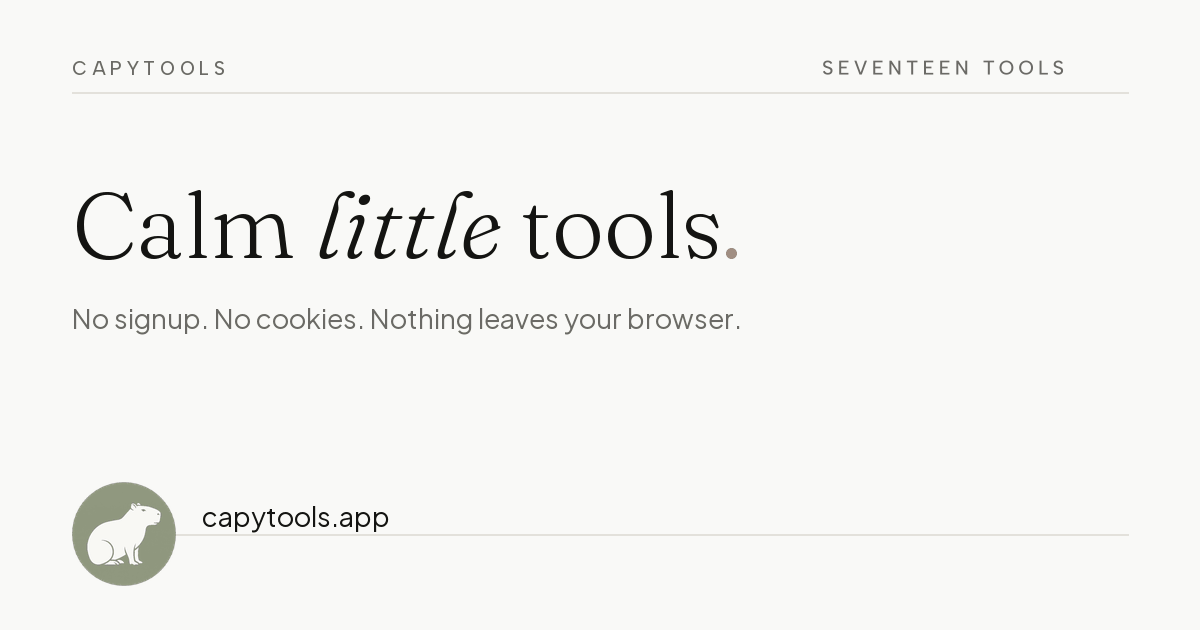
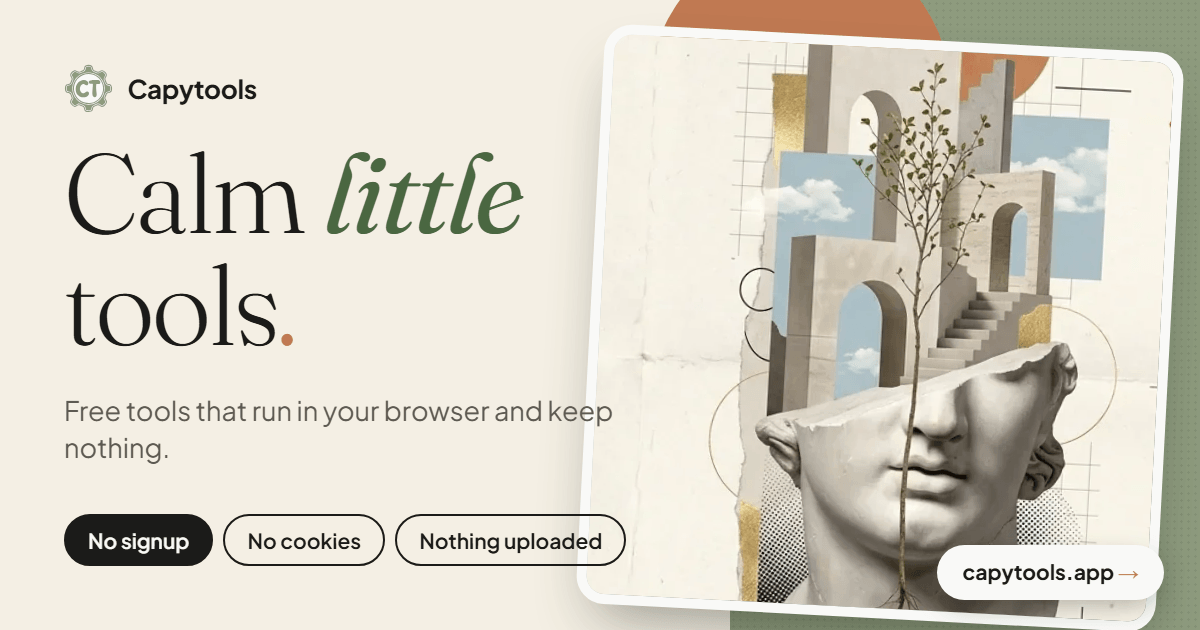
feat(brand): share card redesign, rendered from a template (D63, L55) (#109)
The 1200x630 card now leads with the hero collage on a sage field with a
clay sun, the CT gear mark and a Fraunces headline, sentence case
throughout. It is rendered by scripts/render-share-cards.mjs (headless
Chrome) from scripts/share-cards/card.html, which also renders the local
directory gallery set. The card prints no tool count, so
OG_CARD_TOOL_COUNT and its test are gone.

diff --git a/scripts/share-cards/card.html b/scripts/share-cards/card.html
@@ -1,0 +1,156 @@
+<!doctype html>
+<!--
+  The share card and the directory renders, as one template.
+  Rendered by scripts/render-share-cards.mjs: ?v=<variant> picks a CARDS row.
+  Every claim below is copied from the live tool page — change the page, change this.
+-->
+<html lang="en">
+<head>
+<meta charset="utf-8">
+<link rel="preconnect" href="https://fonts.googleapis.com">
+<link href="https://fonts.googleapis.com/css2?family=Fraunces:ital,opsz,wght@0,9..144,300;0,9..144,400;1,9..144,300;1,9..144,400&family=Plus+Jakarta+Sans:wght@400;500;600;700&family=Albert+Sans:wght@500&display=block" rel="stylesheet">
+<style>
+  :root {
+    --cream: #f9f9f7;
+    --paper: #f4efe4;
+    --ink: #1b1b19;
+    --muted: #5d5a52;
+    --sage: #8e9b7e;
+    --sage-deep: #4a6741;
+    --clay: #c07952;
+    --gold: #d9a441;
+  }
+  * { box-sizing: border-box; margin: 0; padding: 0; }
+  html, body { background: var(--paper); }
+  .stage {
+    position: relative; overflow: hidden;
+    width: var(--w); height: var(--h);
+    background: var(--paper);
+    font-family: "Plus Jakarta Sans", sans-serif; color: var(--ink);
+  }
+  /* the colour field on the right: sage, a clay sun, a plate on top */
+  .field {
+    position: absolute; top: 0; right: 0; bottom: 0; width: var(--field);
+    background: var(--sage);
+  }
+  .field::before { /* paper grain, so the sage is not flat vector */
+    content: ""; position: absolute; inset: 0; opacity: .18; mix-blend-mode: multiply;
+    background-image: radial-gradient(rgba(0,0,0,.35) 1px, transparent 1.2px);
+    background-size: 7px 7px;
+  }
+  .sun {
+    position: absolute; border-radius: 50%; background: var(--clay);
+    width: var(--sun); height: var(--sun); right: var(--sun-r); top: var(--sun-t);
+  }
+  .plate {
+    position: absolute; right: var(--plate-r); top: var(--plate-t);
+    height: var(--plate-h); aspect-ratio: var(--plate-ar);
+    background: var(--cream) center / cover no-repeat;
+    border-radius: 18px; transform: rotate(var(--tilt));
+    box-shadow: 0 2px 4px rgba(20,24,16,.12), 0 30px 60px -12px rgba(20,24,16,.45);
+    outline: 10px solid var(--cream);
+  }
+  .copy {
+    position: absolute; left: var(--pad); top: var(--pad); bottom: var(--pad);
+    width: var(--copy-w); display: flex; flex-direction: column;
+  }
+  .brand { display: flex; align-items: center; gap: 14px; font-weight: 700; font-size: var(--brand-fs); letter-spacing: -.01em; }
+  .brand img { width: calc(var(--brand-fs) * 1.9); height: auto; }
+  .brand .tool { font-family: "Albert Sans", sans-serif; font-weight: 500; color: var(--muted); }
+  .brand .tool::before { content: "·"; margin: 0 10px 0 2px; color: var(--clay); }
+  h1 {
+    margin-top: auto; font-family: "Fraunces", serif; font-weight: 300;
+    font-size: var(--h1); line-height: 1; letter-spacing: -.02em;
+    font-variation-settings: "opsz" 72;
+  }
+  h1 em { font-style: italic; font-weight: 400; color: var(--sage-deep); }
+  h1 .dot { color: var(--clay); }
+  .lead { margin-top: calc(var(--h1) * .28); font-size: var(--lead); line-height: 1.38; color: var(--muted); max-width: 30ch; }
+  .chips { margin-top: auto; display: flex; flex-wrap: wrap; gap: 10px; padding-top: 24px; }
+  .chip {
+    font-size: var(--chip); font-weight: 600; padding: .5em 1.05em; border-radius: 999px;
+    border: 2px solid var(--ink); white-space: nowrap;
+  }
+  .chip:first-child { background: var(--ink); color: var(--cream); }
+  .url {
+    position: absolute; right: var(--url-r); bottom: var(--url-b);
+    background: var(--cream); color: var(--ink); border-radius: 999px;
+    font-size: var(--chip); font-weight: 700; padding: .6em 1.2em;
+    box-shadow: 0 10px 30px -8px rgba(20,24,16,.4);
+  }
+  .url b { color: var(--clay); }
+  .tools { display: flex; flex-wrap: wrap; gap: 8px; margin-top: 26px; max-width: 640px; }
+  .tools span { font-size: 17px; font-weight: 600; padding: 6px 13px; border-radius: 999px; background: rgba(142,155,126,.22); color: var(--sage-deep); }
+</style>
+</head>
+<body>
+<div class="stage" id="stage"></div>
+<script>
+  // shared geometry, then per-size overrides
+  const OG = { "--w": "1200px", "--h": "630px", "--pad": "64px", "--copy-w": "640px", "--field": "470px",
+    "--h1": "112px", "--lead": "27px", "--chip": "21px", "--brand-fs": "26px",
+    "--sun": "300px", "--sun-r": "250px", "--sun-t": "-60px",
+    "--plate-h": "560px", "--plate-ar": "1", "--plate-r": "40px", "--plate-t": "48px", "--tilt": "3deg",
+    "--url-r": "36px", "--url-b": "30px" };
+  const GALLERY = { "--w": "1270px", "--h": "760px", "--pad": "72px", "--copy-w": "640px", "--field": "520px",
+    "--h1": "104px", "--lead": "27px", "--chip": "21px", "--brand-fs": "26px",
+    "--sun": "340px", "--sun-r": "300px", "--sun-t": "-70px",
+    "--plate-h": "600px", "--plate-ar": "896 / 1200", "--plate-r": "70px", "--plate-t": "70px", "--tilt": "3.5deg",
+    "--url-r": "40px", "--url-b": "34px" };
+
+  const TOOLS = ["CapyBg", "CapyQR", "CapyResize", "CapyRead", "CapyTone", "CapyInvoice", "CapyResume",
+    "CapyPassport", "CapyStrip", "CapyStamp", "CapyPixel", "CapyToken", "CapyOG", "CapyImagine",
+    "CapyCreator", "CapyWrapped", "CapyExpense"];
+
+  const CARDS = {
+    og: { size: OG, plate: "hero-crop", h1: 'Calm <em>little</em><br>tools<span class="dot">.</span>',
+      lead: "Free tools that run in your browser and keep nothing.",
+      chips: ["No signup", "No cookies", "Nothing uploaded"], url: "capytools.app" },
+    home: { size: GALLERY, plate: "hero-crop", h1: 'Calm <em>little</em> tools, quiet by <em>default</em><span class="dot">.</span>',
+      lead: "Seventeen small tools for images, QR codes, colour, invoices and more — sixteen run right in your browser.",
+      chips: ["No signup", "No cookies", "Nothing uploaded"], url: "capytools.app", tools: true,
+      over: { "--h1": "84px", "--copy-w": "590px", "--plate-ar": "1", "--plate-h": "520px", "--plate-t": "110px", "--plate-r": "50px" } },
+    capybg: { size: GALLERY, plate: "lab-12", tool: "Background remover",
+      h1: 'The background, <em>gone</em><span class="dot">.</span>',
+      lead: "Cut the subject out of any photo. The model runs in your browser, so the photo is never uploaded.",
+      chips: ["Transparent PNG", "No upload", "Free, no signup"], url: "capytools.app/<b>capybg</b>" },
+    capyqr: { size: GALLERY, plate: "lab-7", tool: "QR code generator",
+      h1: 'A code worth <em>scanning</em><span class="dot">.</span>',
+      lead: "Styled QR codes for links, Wi-Fi, contacts and events, with your colours and logo — scanned to prove they read.",
+      chips: ["Wi-Fi and vCard", "Your logo", "Proof-scanned"], url: "capytools.app/<b>capyqr</b>" },
+    capyresize: { size: GALLERY, plate: "lab-8", tool: "Image resizer",
+      h1: 'Every size it <em>needs to be</em><span class="dot">.</span>',
+      lead: "Resize and convert to PNG, JPEG or WebP, or turn one logo into a full favicon pack — without uploading the file.",
+      chips: ["PNG · JPEG · WebP", "Favicon pack", "No upload"], url: "capytools.app/<b>capyresize</b>" },
+    capyread: { size: GALLERY, plate: "lab-14", tool: "Image to text",
+      h1: 'The words are <em>in there</em><span class="dot">.</span>',
+      lead: "Pull the text out of a photo, screenshot or scanned PDF, with OCR that runs in your browser.",
+      chips: ["Photos and PDFs", ".txt and .docx", "No upload"], url: "capytools.app/<b>capyread</b>" },
+    capytone: { size: GALLERY, plate: "lab-11", tool: "Colour palette generator",
+      h1: 'Type a feeling, <em>get a poster</em><span class="dot">.</span>',
+      lead: "Turn a mood into a five-colour palette with readable contrast built in — plus contrast checks, harmonies and gradients.",
+      chips: ["Five-colour palettes", "Contrast built in", "No AI"], url: "capytools.app/<b>capytone</b>" },
+  };
+
+  const v = new URLSearchParams(location.search).get("v") || "og";
+  const c = CARDS[v];
+  const stage = document.getElementById("stage");
+  for (const [k, val] of Object.entries({ ...c.size, ...(c.over || {}) })) stage.style.setProperty(k, val);
+  const plate = c.plate === "hero-crop"
+    // the hero plate is a square with the collage in its right half; crop to it
+    ? `background-image:url(../../public/plates/hero.webp);background-size:200% auto;background-position:92% 42%`
+    : `background-image:url(../../public/plates/${c.plate}.webp);background-size:150% auto;background-position:50% 55%`;
+  stage.innerHTML = `
+    <div class="field"></div><div class="sun"></div>
+    <div class="plate" style="${plate}"></div>
+    <div class="copy">
+      <div class="brand"><img src="../../public/brand/logo.svg" alt="">Capytools${c.tool ? `<span class="tool">${c.tool}</span>` : ""}</div>
+      <h1>${c.h1}</h1>
+      <p class="lead">${c.lead}</p>
+      ${c.tools ? `<div class="tools">${TOOLS.map((t) => `<span>${t}</span>`).join("")}</div>` : ""}
+      <div class="chips">${c.chips.map((t) => `<span class="chip">${t}</span>`).join("")}</div>
+    </div>
+    <div class="url">${c.url} <b>→</b></div>`;
+</script>
+</body>
+</html>

diff --git a/src/lib/capytools/og.ts b/src/lib/capytools/og.ts
@@ -10,8 +10,9 @@ import { SITE_URL } from "@/lib/utils";
  * It is a STATIC file rather than an `opengraph-image` route. The card never
  * changes — it carries the brand, not the page — so rendering it per request
  * would buy nothing and cost a Google Fonts round trip on every cold isolate,
- * which is exactly the unbounded await #40 had to put a timeout on. Generated
- * once from the real Fraunces and Jakarta faces and committed.
+ * which is exactly the unbounded await #40 had to put a timeout on. Rendered
+ * by `scripts/render-share-cards.mjs` from `scripts/share-cards/card.html`
+ * and committed; it prints no tool count, so a new tool leaves it valid.
  *
  * Exported as a whole `openGraph` block, not just the image, because Next
  * merges metadata SHALLOWLY: a page that declares its own `openGraph` REPLACES
@@ -19,16 +20,6 @@ import { SITE_URL } from "@/lib/utils";
  * own title from silently dropping the card
  * (next/dist/docs/01-app/03-api-reference/04-functions/generate-metadata.md).
  */
-/**
- * The tool count PRINTED on the card, as pixels.
- *
- * The card is a committed image, so this string cannot re-derive itself from
- * the registry the way the rest of the site does. `tests/og-card.test.ts`
- * fails when this stops matching `SUITE.length` — which is the reminder to
- * regenerate the card, not to edit this number.
- */
-export const OG_CARD_TOOL_COUNT = 17;
-
 export const OG_IMAGE = {
   url: "/og.png",
   width: 1200,

diff --git a/tests/og-card.test.ts b/tests/og-card.test.ts
@@ -12,7 +12,6 @@ vi.mock("next/font/google", () => {
 });
 
 import {
-  OG_CARD_TOOL_COUNT,
   OG_DEFAULTS,
   OG_IMAGE,
   TWITTER_DEFAULTS,
@@ -94,13 +93,6 @@ describe("the share card", () => {
     // pixel dimensions, which are what the platforms actually key on.
     expect([OG_IMAGE.width, OG_IMAGE.height]).toEqual([1200, 630]);
     expect(OG_IMAGE.width / OG_IMAGE.height).toBeCloseTo(1.9048, 3);
-  });
-
-  it("does not claim a tool count the registry has outgrown", () => {
-    // The card reads "THIRTEEN TOOLS" in pixels. Every other count on the site
-    // derives from SUITE; this one cannot, so it gets a tripwire instead.
-    // When this fails, regenerate the card — do not just edit the number.
-    expect(OG_CARD_TOOL_COUNT).toBe(SUITE.length);
   });
 
   it("carries alt text", () => {

diff --git a/decisions.md b/decisions.md
@@ -420,3 +420,9 @@ Record both columns in `docs/research/keywords-<date>.md`, and say in the PR whi
 **Context:** the owner supplied the final logo (2026-10-10): "CT" inside a ringed gear, sage on cream. It replaces the traced capybara in a sage disc; the capybara stays the mascot (`CapyMark`, `CapyArt`).
 **Decision:** traced with VTracer (binary, spline) as two layers — the gear's whole silhouette (sage plus everything it encloses, found by flood-filling the background from the border) and the sage lines — at `length_threshold` 20 with integer coordinates: 12.5 KB of SVG (4.9 KB gzipped) instead of 33 KB at the defaults, 0.78% of pixels different from the original at 512 px. Coloured with the existing tokens, not sampled colours: lines `--brand-disc`, fill `--brand-ink` (light: sage on cream; dark: cream on charcoal). The letters' lighter cream halo in the artwork merges into the cream fill — two colours, no third token. `viewBox` is a square hugging the gear. Regenerated: `brand-paths.ts` (`BRAND_BASE` + five `BRAND_PATHS`), `public/brand/logo{,-dark,-mono}.svg`, `src/app/icon.svg`, `logo-512.png` (transparent), `apple-icon.png` (opaque cream, mark at 148/180), `favicon.ico` (16/32/48).
 **Consequence:** at 16 px the thin cream rings blur; "CT" still reads. A simplified small-size favicon is the upgrade if that matters. Share images and lab plates were not touched.
+
+## D63 — The share card is rendered from a template, prints no count, and leads with art · **decided**
+
+**Context:** the owner found the 1200×630 card (cream, uppercase "CAPYTOOLS / SEVENTEEN TOOLS", the old capybara disc) "too mundane" (2026-10-18). It also broke two house rules: all-caps wide-tracked labels (AGENTS.md §1) and the brand mark D61 replaced.
+**Decision:** `scripts/share-cards/card.html` + `scripts/render-share-cards.mjs` (headless Chrome, real Google Fonts faces) render the card and the directory gallery set from one template: cream copy column with the Fraunces headline (opsz 72, the site's look), the CT gear, sentence-case chips; a sage field with a clay sun and the lab plate (hero for the site, `lab-N` per tool) as a tilted card. The card states no tool count, so `OG_CARD_TOOL_COUNT` and its test were deleted rather than kept in sync. `public/og.png` is a 256-colour palette PNG (164 KB; Chrome's raw output was 380 KB). Directory renders (1270×760, Product Hunt's gallery size) for the landing page and CapyBg/QR/Resize/Read/Tone go to `docs/research/directory-kit/` (gitignored). Every line on a render is copied from the live tool page (L13).
+**Consequence:** re-run the script after changing a tool's headline or a plate. The card says "Free tools that run in your browser" — not a count, because CapyExpense is a desktop app.

diff --git a/learning.md b/learning.md
@@ -259,3 +259,7 @@ The CapyBench pricing research was good and flagged its own unverifiable claims,
 ## L52. VTracer's defaults over-segment flat art
 
 The CT gear traced at the default `length_threshold` (4) gave 33 KB of SVG — inlined in every page header. `length_threshold` 20 plus integer coordinates gave 12.5 KB with no visible change (0.78% pixel difference at 512 px). On the Windows wheel the extra parameters are positional too: `(…, layer_difference, corner_threshold, length_threshold, max_iterations, splice_threshold, path_precision)`. Measure the trace against the source raster (threshold both, XOR) rather than eyeballing it.
+
+## L55. Headless Chrome is the share-card renderer already on every machine
+
+`chrome --headless=new --screenshot=out.png --window-size=W,H --virtual-time-budget=10000 file:///…?v=x` renders real CSS (grid, blend modes, variable-font axes) with Google Fonts loaded — Satori/`ImageResponse` can't do half of that. Two gotchas: it needs its own `--user-data-dir` or it exits silently while the owner's Chrome is open, and on a fresh profile the page renders in the OS colour scheme, so pin colours rather than relying on `prefers-color-scheme`.
